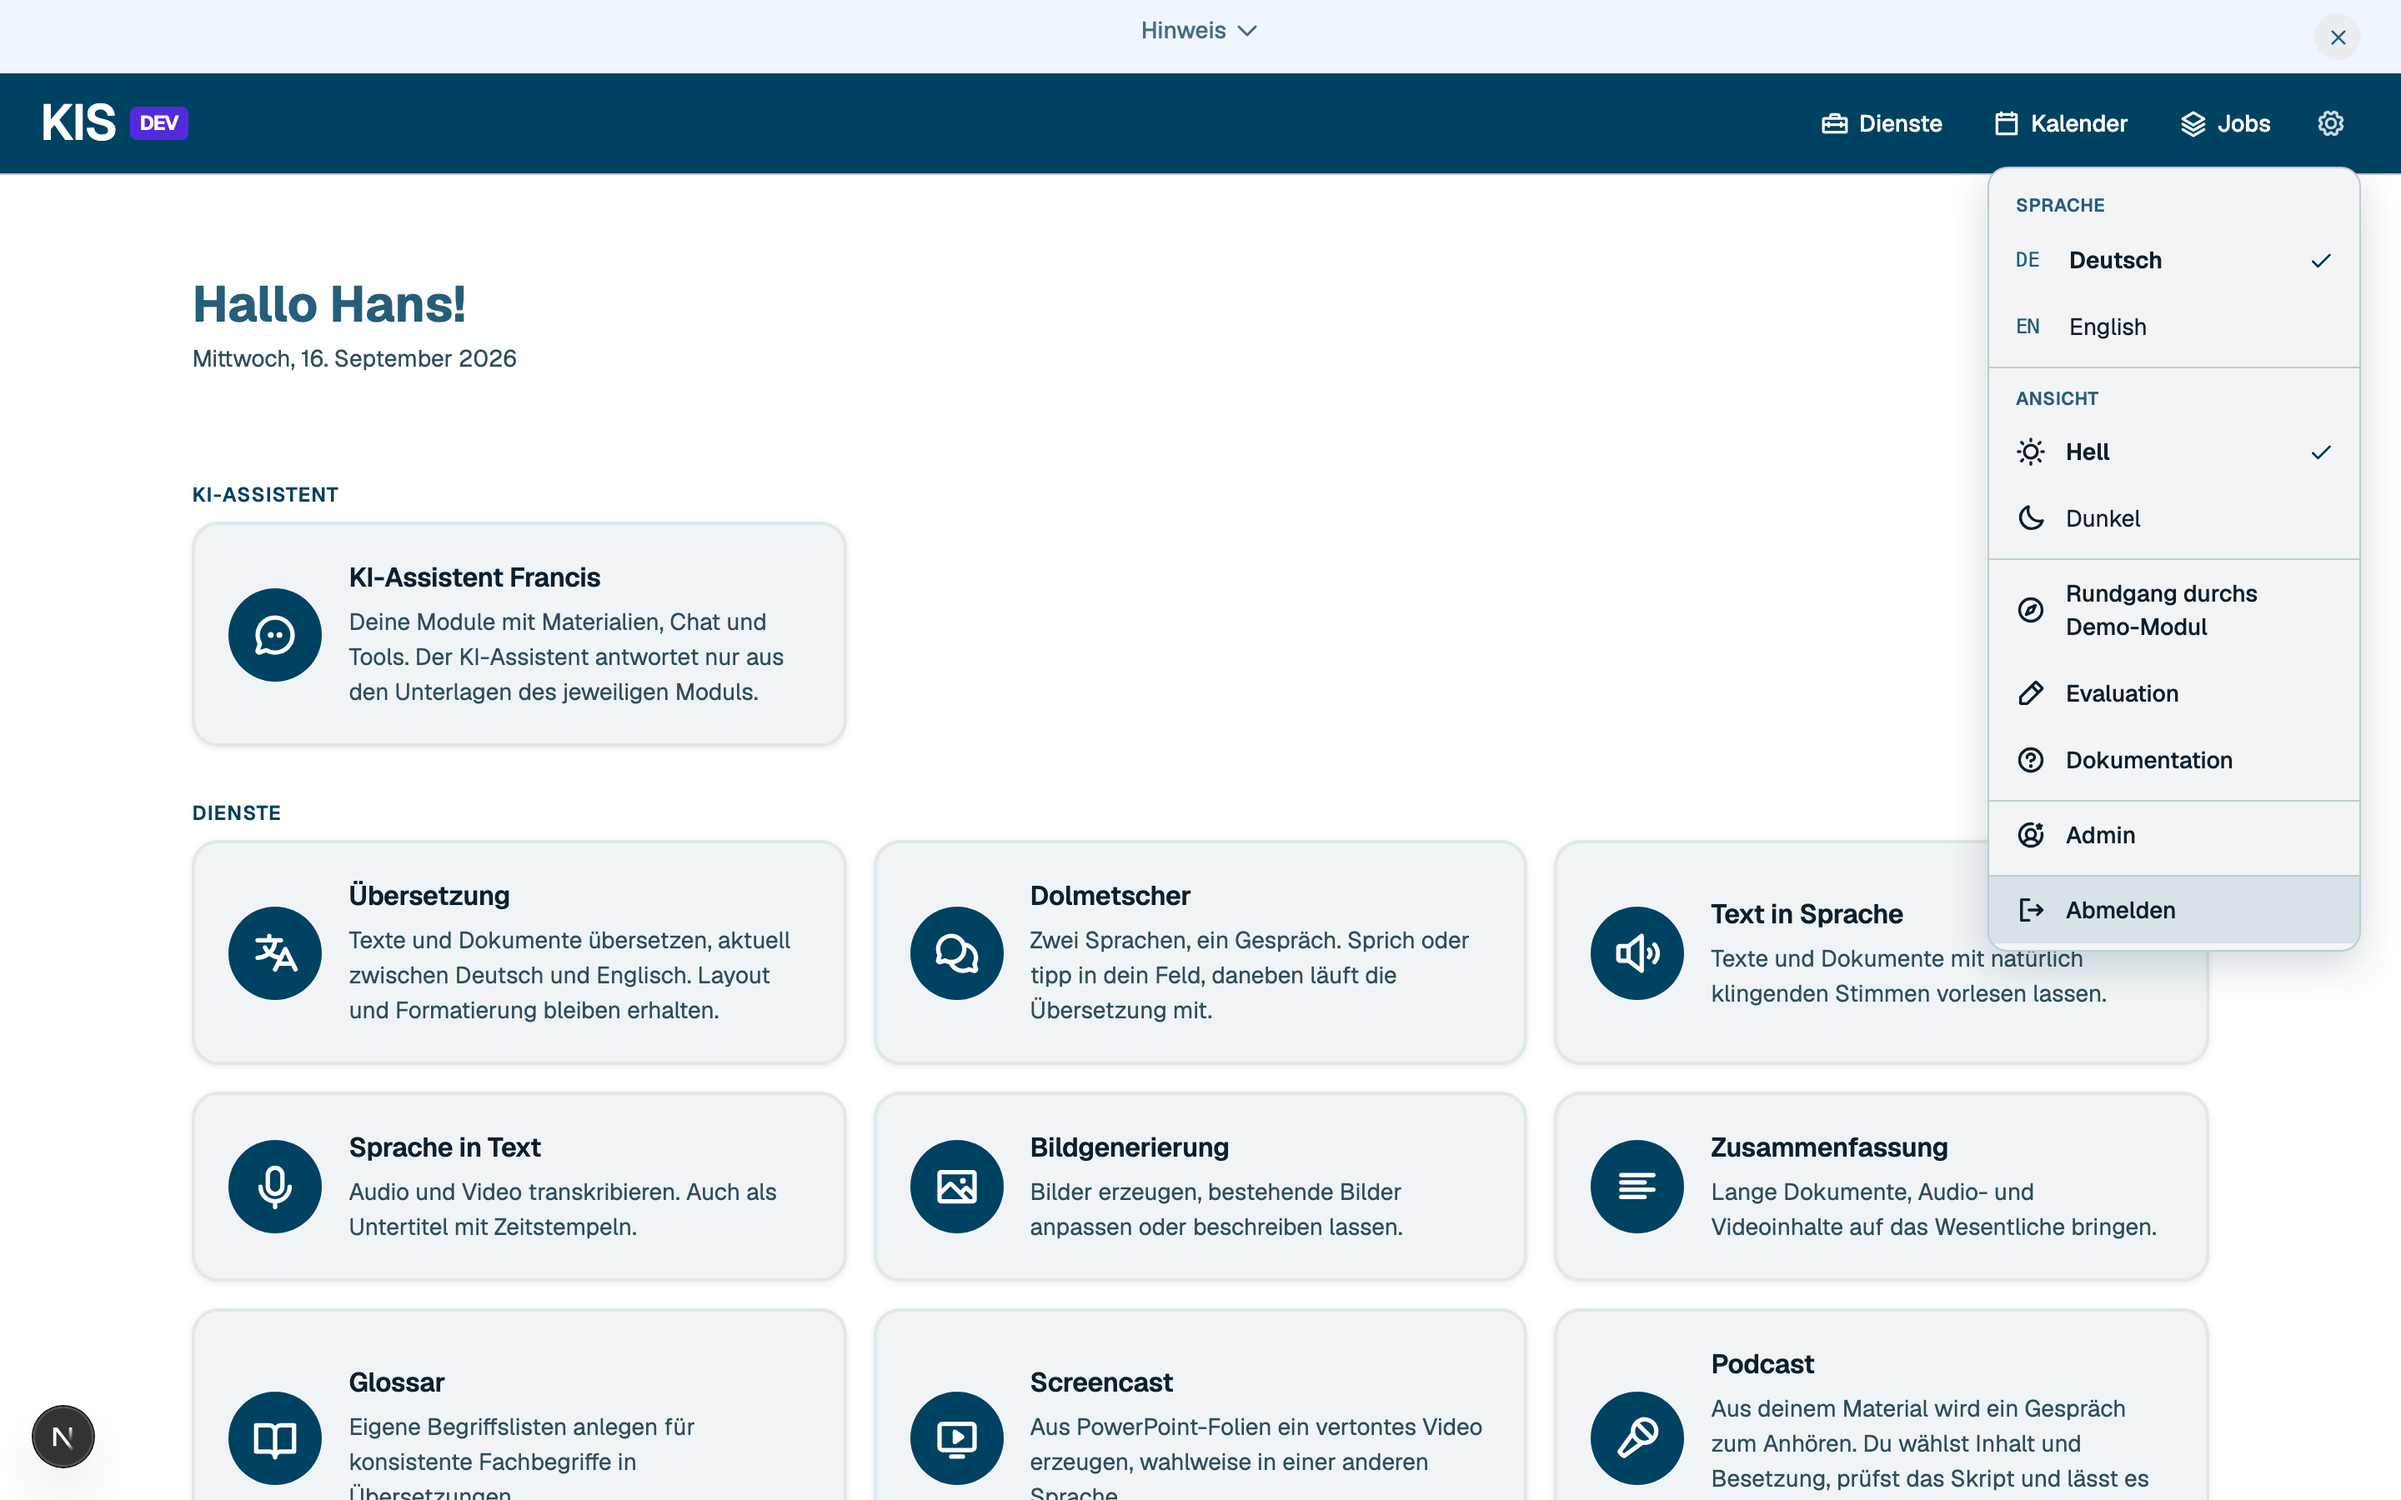
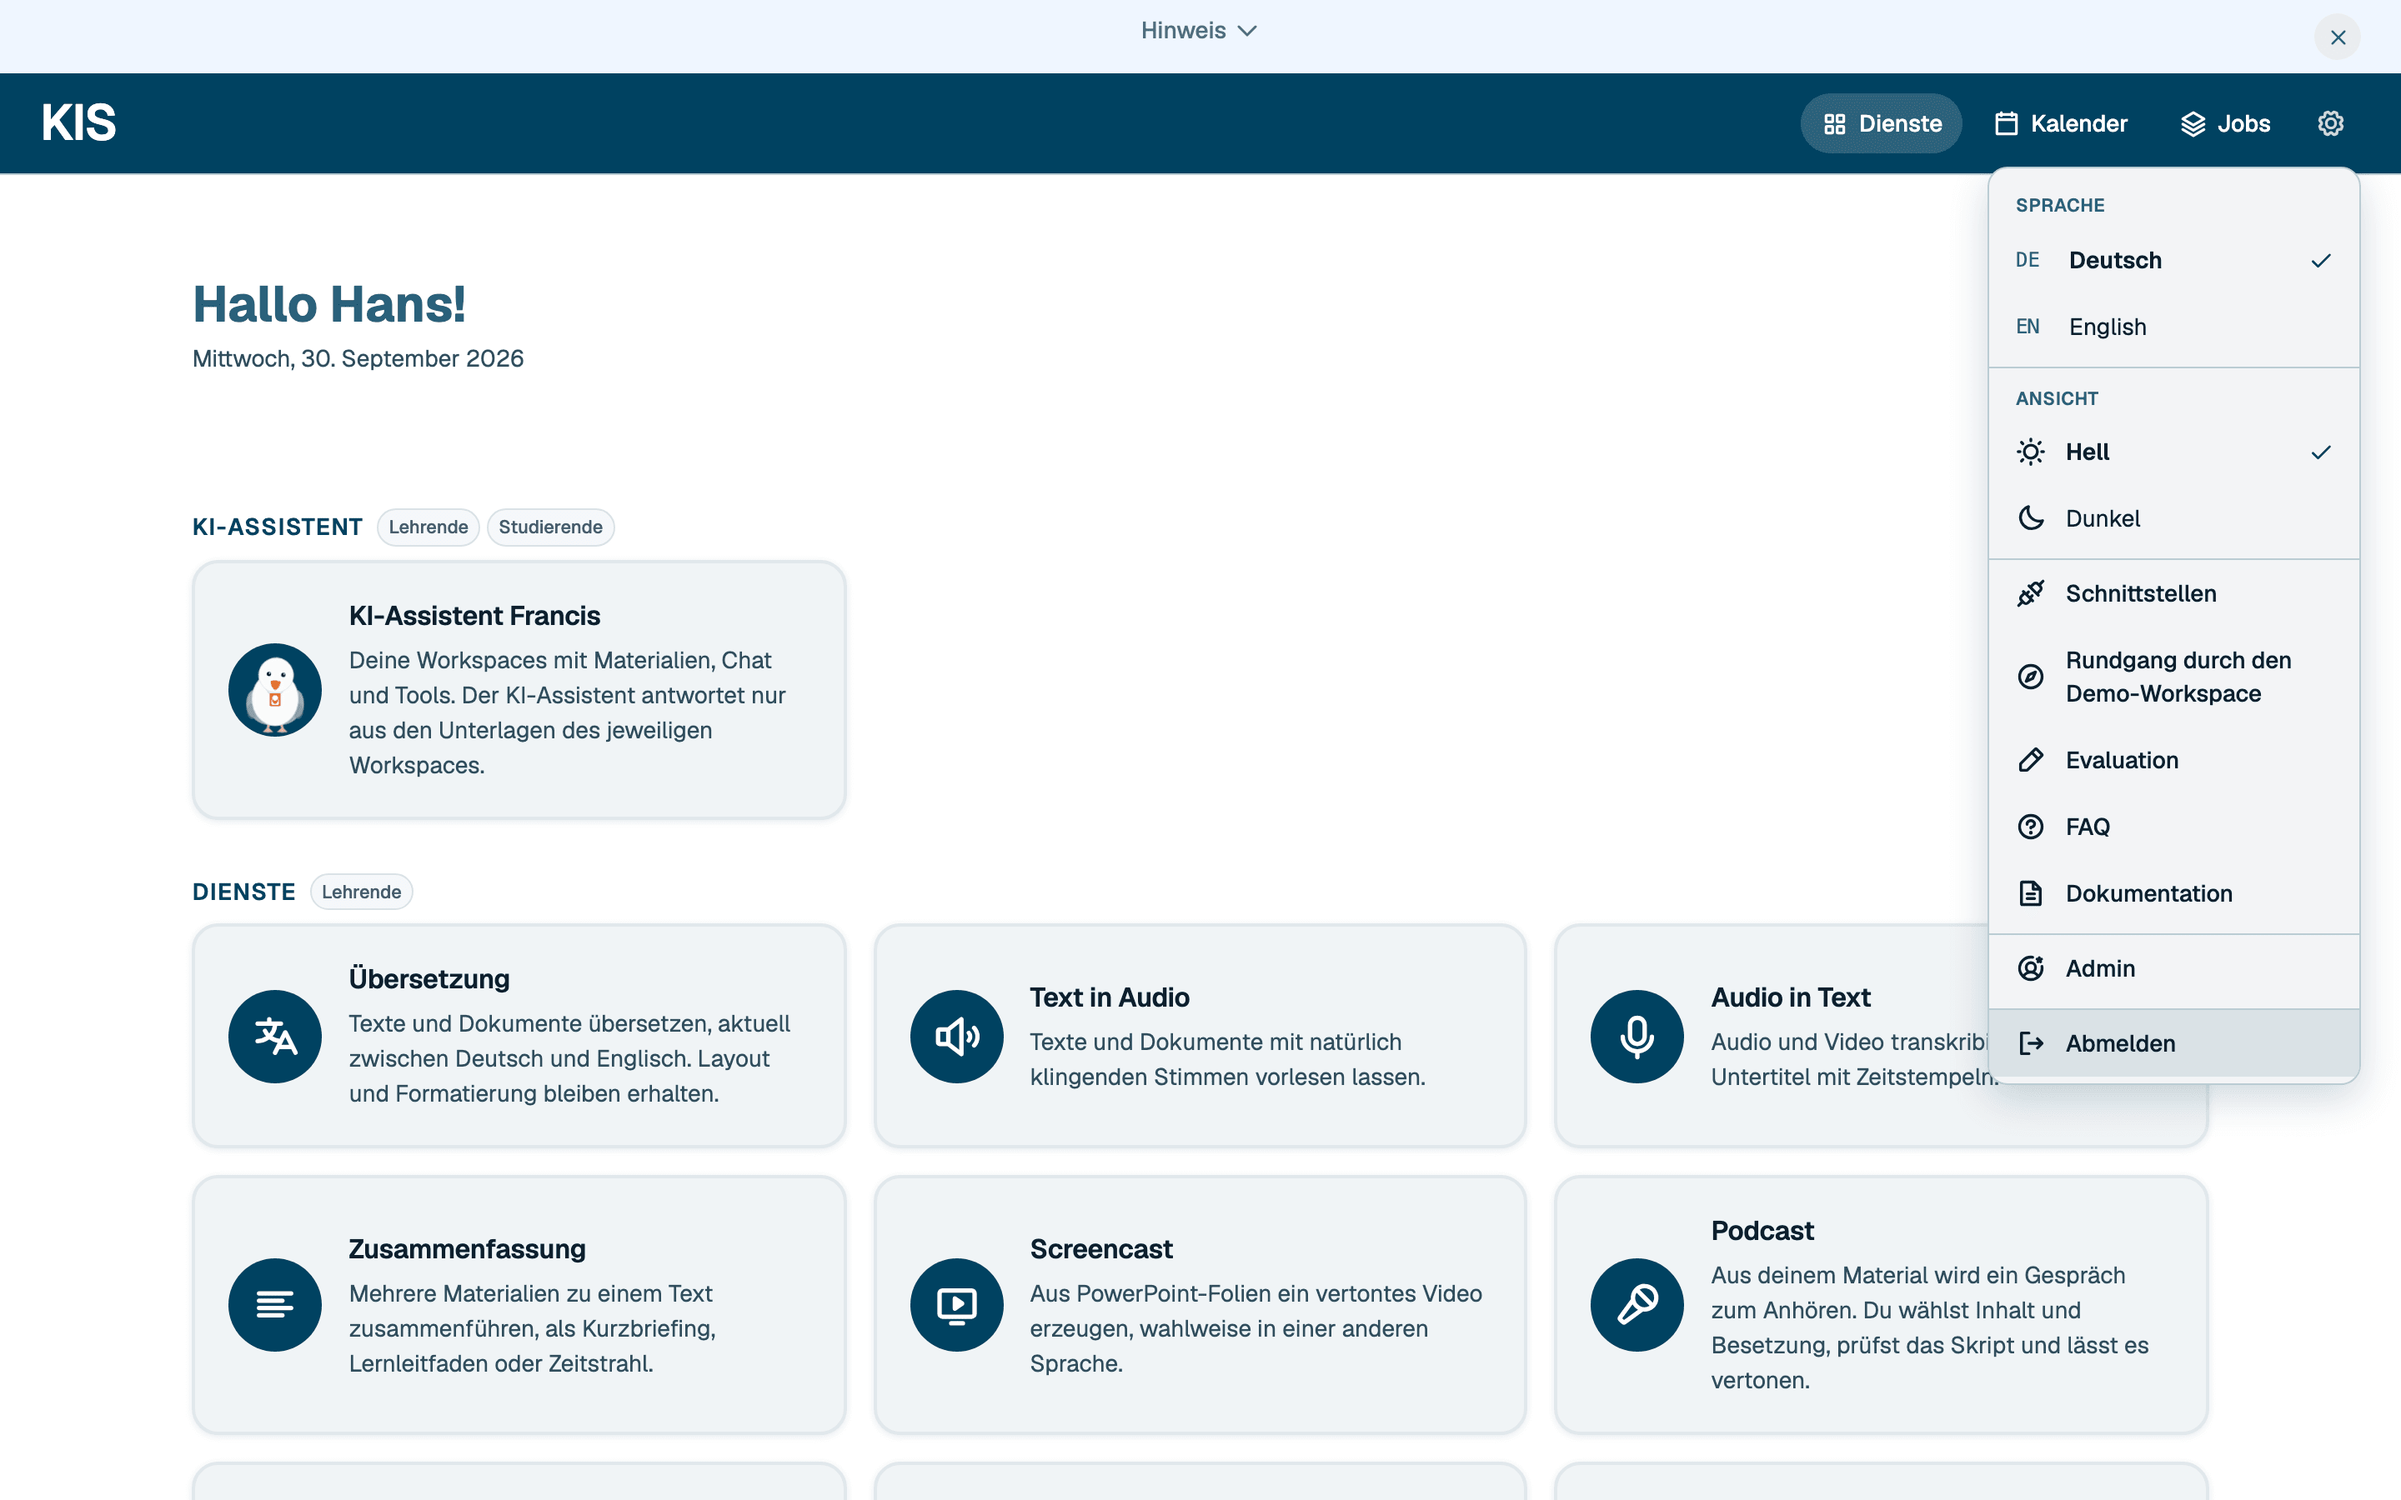
docs(schnittstellen): eigener Artikel mit Bild, Hinweise in Einstellungen und Text in Audio

diff --git a/frontend/e2e/manual-images.spec.ts b/frontend/e2e/manual-images.spec.ts
@@ -215,6 +215,20 @@ test.describe("Handbuch-Bilder", () => {
       await page.screenshot({ path: shot(locale, "header-menu") });
     });
 
+    test(`schnittstellen ${locale}`, async ({ page }) => {
+      await useLocale(page, locale);
+      await page.goto(`${prefix(locale)}/interfaces`, { waitUntil: "domcontentloaded" });
+      await settle(page);
+      await expect(page.getByText("Fish Audio", { exact: true })).toBeVisible();
+      // Only the narrow column, at full width the empty margins shrink the text in the article.
+      const box = (await page.locator(".max-w-2xl").last().boundingBox())!;
+      await page.screenshot({
+        path: shot(locale, "interfaces"),
+        fullPage: true,
+        clip: { x: box.x - 24, y: box.y - 24, width: box.width + 48, height: box.height + 48 },
+      });
+    });
+
     for (const entry of ADMIN_PAGES) {
       test(`${entry.name} ${locale}`, async ({ page }) => {
         await useLocale(page, locale);

diff --git a/frontend/src/content/manual/de/50-around/40-own-interfaces.md b/frontend/src/content/manual/de/50-around/40-own-interfaces.md
@@ -1,0 +1,56 @@
+# Schnittstellen
+
+Unter Schnittstellen im Zahnrad-Menü verbinden Sie Ihr eigenes Konto bei einem Stimmdienst. Dessen
+Stimmen stehen Ihnen danach in Text in Audio, Podcast und Screencast zur Verfügung.
+
+![Die Seite Schnittstellen mit drei verbundenen Anbietern](/manual/{lang}/interfaces.png)
+
+## Aktuell nur Stimmen
+
+Verbinden lassen sich derzeit ElevenLabs, Gemini und Fish Audio. Eigene Sprachmodelle für Chat,
+Übersetzung oder Zusammenfassung lassen sich hier nicht anbinden, dafür nutzt KIS weiter die
+Modelle der Hochschule.
+
+## Vorher ein Hinweis
+
+Beim ersten Besuch bleibt die Seite gesperrt, bis Sie einen Hinweis bestätigen. Die wichtigsten
+Punkte daraus:
+
+- **Ihr Vertrag**: Sie nutzen Ihr Konto zu den Bedingungen des Anbieters. Kosten und Rechte an
+  den Ergebnissen liegen bei Ihnen.
+- **Ihre Texte gehen hinaus**: Was Sie vertonen lassen, geht an den Anbieter und verlässt damit
+  die Systeme der TH Lübeck.
+- **Geklonte Stimmen**: nur die eigene oder die einer Person, die zugestimmt hat.
+
+Ändert sich der Hinweis inhaltlich, fragt KIS Sie noch einmal.
+
+## Welche Stimmen erscheinen
+
+- **ElevenLabs**: alle Stimmen Ihres Kontos, auch die, die Sie selbst geklont haben
+- **Gemini**: 30 feste Stimmen, jede davon spricht alle Sprachen
+- **Fish Audio**: Ihre eigenen Stimmen und dazu die 20 am besten bewerteten öffentlichen
+  deutschen und 10 englischen
+
+Legen Sie beim Anbieter eine neue Stimme an, holt Stimmen neu laden sie nach KIS. In der
+Stimmauswahl ist der Anbieter mit eigener Zugang gekennzeichnet.
+
+## Nur für Sie
+
+- **Sichtbarkeit**: Die Stimmen erscheinen nur bei Ihnen. Studierende sehen die Seite nicht.
+- **Schlüssel**: KIS speichert ihn verschlüsselt und zeigt danach nur die letzten vier Zeichen.
+  Er wird ausschließlich für Ihre eigenen Aufträge verwendet.
+- **Guthaben**: Den Stand zeigt KIS nur bei ElevenLabs, und nur wenn der Schlüssel Ihr Abo
+  lesen darf. Bei Gemini und Fish Audio sehen Sie ihn im Konto beim Anbieter.
+
+## Wenn der Anbieter nicht mitspielt
+
+Lehnt der Anbieter den Schlüssel ab oder ist Ihr Guthaben aufgebraucht, stoppt der Auftrag mit
+einer Meldung, die den Anbieter nennt. Antwortet er nur kurz nicht, versucht KIS es erneut.
+
+KIS weicht dabei nie auf die Stimmen der Hochschule aus, sonst spräche ein Podcast mittendrin mit
+einer anderen Stimme.
+
+## Trennen
+
+Entfernen löscht den Schlüssel in KIS, die Stimmen verschwinden aus der Auswahl. Beim Anbieter
+bleibt der Schlüssel gültig, bis Sie ihn dort löschen.

diff --git a/frontend/src/content/manual/en/50-around/40-own-interfaces.md b/frontend/src/content/manual/en/50-around/40-own-interfaces.md
@@ -1,0 +1,54 @@
+# Interfaces
+
+Under Interfaces in the gear menu you connect your own account at a voice service. Its voices are
+then available to you in Text to audio, Podcast and Screencast.
+
+![The Interfaces page with three connected providers](/manual/{lang}/interfaces.png)
+
+## Currently voices only
+
+At the moment you can connect ElevenLabs, Gemini and Fish Audio. Your own language models for
+chat, translation or summaries cannot be connected here, KIS keeps using the university's models
+for those.
+
+## A notice first
+
+On your first visit the page stays locked until you confirm a notice. Its main points:
+
+- **Your contract**: You use your account under the provider's terms. Costs and the rights to
+  the results are yours.
+- **Your texts leave**: Whatever you have spoken goes to the provider and so leaves the systems
+  of TH Lübeck.
+- **Cloned voices**: only your own or that of a person who has agreed.
+
+If the notice changes in substance, KIS asks you again.
+
+## Which voices appear
+
+- **ElevenLabs**: every voice in your account, including the ones you cloned yourself
+- **Gemini**: 30 fixed voices, each of them speaks every language
+- **Fish Audio**: your own voices plus the 20 best rated public German and 10 English ones
+
+If you create a new voice at the provider, Reload voices brings it into KIS. In the voice picker
+the provider is marked as own account.
+
+## Only for you
+
+- **Visibility**: The voices appear only for you. Students do not see the page.
+- **Key**: KIS stores it encrypted and afterwards shows only its last four characters. It is used
+  for your own jobs only.
+- **Balance**: KIS shows it only for ElevenLabs, and only if the key may read your plan. For
+  Gemini and Fish Audio you see it in your account at the provider.
+
+## When the provider does not play along
+
+If the provider rejects the key or your balance is used up, the job stops with a message that
+names the provider. If it only fails to answer for a moment, KIS tries again.
+
+KIS never falls back to the university's voices here, otherwise a podcast would switch to another
+voice halfway through.
+
+## Disconnecting
+
+Remove deletes the key in KIS and the voices disappear from the picker. At the provider the key
+stays valid until you delete it there.

diff --git a/frontend/src/content/manual/de/40-tools/20-text-to-speech.md b/frontend/src/content/manual/de/40-tools/20-text-to-speech.md
@@ -11,7 +11,8 @@ wie viele Zeichen von der erlaubten Menge verbraucht sind.
 
 ## Was Sie einstellen können
 
-- **Stimme**: über Stimmen anhören probieren Sie sie vorher aus
+- **Stimme**: über Stimmen anhören probieren Sie sie vorher aus. Stimmen aus Ihrem eigenen Konto bei
+  ElevenLabs, Gemini oder Fish Audio kommen über Schnittstellen im Zahnrad-Menü dazu.
 - **Geschwindigkeit**: von langsam bis schnell
 - **Pausen**: von kurz bis sehr lang, das steuert den Abstand zwischen den Sätzen
 

diff --git a/frontend/src/content/manual/en/40-tools/20-text-to-speech.md b/frontend/src/content/manual/en/40-tools/20-text-to-speech.md
@@ -11,7 +11,8 @@ allowed amount of characters is used up.
 
 ## What you can set
 
-- **Voice**: listen to the voices beforehand to try them out
+- **Voice**: listen to the voices beforehand to try them out. Voices from your own account at
+  ElevenLabs, Gemini or Fish Audio are added under Interfaces in the gear menu.
 - **Speed**: from slow to fast
 - **Pauses**: from short to very long, this steers the gap between sentences
 

diff --git a/frontend/src/content/manual/de/50-around/30-settings.md b/frontend/src/content/manual/de/50-around/30-settings.md
@@ -6,6 +6,7 @@ Das Zahnrad oben rechts gilt für die ganze Plattform:
 
 - **Sprache** der Oberfläche, Deutsch oder Englisch
 - **Ansicht**, hell oder dunkel
+- **Schnittstellen**, eigene Stimmdienste verbinden, nur für Lehrende und Administration
 - **Dokumentation**, diese Seiten
 - **Abmelden**
 

diff --git a/frontend/src/content/manual/en/50-around/30-settings.md b/frontend/src/content/manual/en/50-around/30-settings.md
@@ -6,6 +6,7 @@ The gear in the top right applies to the whole platform:
 
 - **Language** of the interface, German or English
 - **Look**, light or dark
+- **Interfaces**, connect your own voice services, only for teaching staff and administrators
 - **Documentation**, these pages
 - **Sign out**
 
